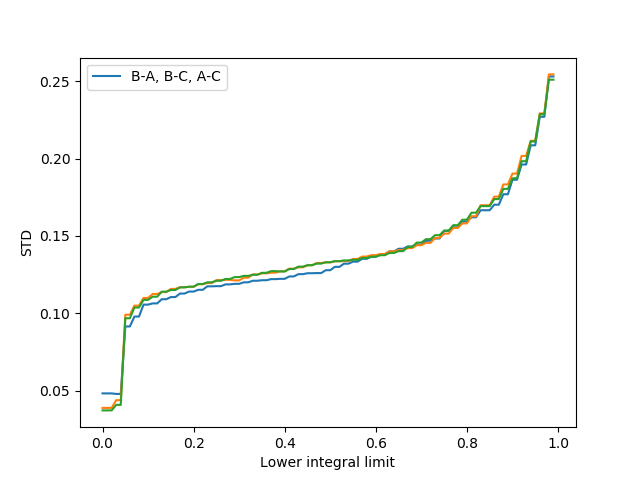
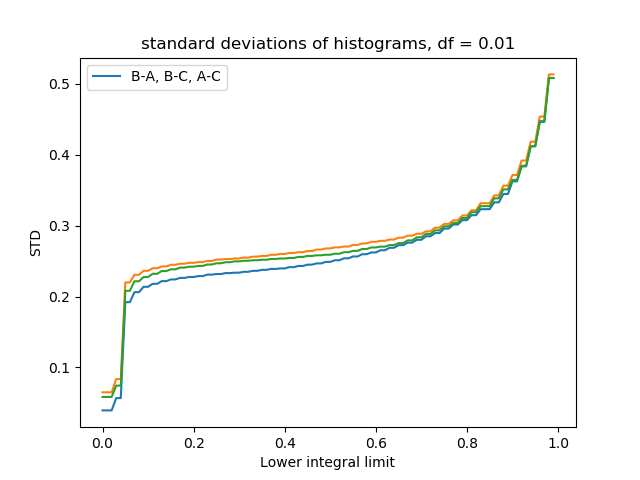
Did split-latitude sigma over f plot

diff --git a/SWARM/multi_SWARMreader.py b/SWARM/multi_SWARMreader.py
@@ -229,8 +229,8 @@ class MultiSWARM():
             lat0 - float; low latitude limit
 
         returns:
-            hists; list of histograms [BC, BA, AC]
-            bins; list of bins [BC, BA, AC]
+            hists; list of histograms [BA_high, BA_low, BC_high, BC_low, AC_high, AC_low]
+            bins; list of bins [BA_high, BA_low, BC_high, BC_low, AC_high, AC_low]
         """
 
         binlist = np.linspace(-1, 1, bins_)
@@ -302,7 +302,58 @@ class MultiSWARM():
             means[0][i] = BAmean
             means[1][i] = BCmean
             means[2][i] = ACmean
-            
+
+
+        return freq0s, sigmas, means
+
+
+
+
+    def freq_sig_lat(self,df = 0.1, n = 100,\
+                 bins_ = 10, abs = False, norm = True, lat1 = 75, lat0 = 0):
+        """
+        Calculates standard deviation and mean as a function of frequency
+        returns:
+            freq0s - nparray; array containing lower integral limits
+            sigmas - nparray; array on the form [sigmasBA, sigmasBC, sigmasAC]
+            means - nparray; array on the form [meansBA, meansBC, meansAC]
+        """
+        N = int(1/df)
+        freq0s = np.linspace(0, 1-df, N)
+        sigmas = np.zeros((6, N))
+        means = np.zeros_like(sigmas)
+        for i in range(len(freq0s)):
+            print(freq0s[i])
+            minfreq = freq0s[i]
+            maxfreq = freq0s[i]+df
+            hists, bins = self.multi_histmake_lat(n = n, minfreq = minfreq , maxfreq = maxfreq,\
+                         bins_ = bins_, abs = abs, norm = norm, lat1 = lat1, lat0 = lat0)
+            for j in range(len(hists)):
+                d_bins = bins[j][1] - bins[j][0]
+                hists[j] = hists[j]/np.sum(hists[j]*d_bins)
+
+
+            BAstd_high, BAmean_high = self.pro.std_mean(hists[0], bins[0])
+            BAstd_low, BAmean_low = self.pro.std_mean(hists[1], bins[1])
+            BCstd_high, BCmean_high = self.pro.std_mean(hists[2], bins[2])
+            BCstd_low, BCmean_low = self.pro.std_mean(hists[3], bins[3])
+            ACstd_high, ACmean_high = self.pro.std_mean(hists[4], bins[4])
+            ACstd_low, ACmean_low = self.pro.std_mean(hists[5], bins[5])
+
+            sigmas[0][i] = BAstd_high
+            sigmas[1][i] = BAstd_low
+            sigmas[2][i] = BCstd_high
+            sigmas[3][i] = BCstd_low
+            sigmas[4][i] = ACstd_high
+            sigmas[5][i] = ACstd_low
+            means[0][i] = BAmean_high
+            means[1][i] = BAmean_low
+            means[2][i] = BCmean_high
+            means[3][i] = BCmean_low
+            means[4][i] = ACmean_high
+            means[5][i] = ACmean_low
+
+
         return freq0s, sigmas, means
 
 
@@ -312,7 +363,7 @@ class MultiSWARM():
 
 if __name__ == "__main__":
     object = MultiSWARM(2013, 12, 9, 2013, 12, 31)
-    object.freq_sig(0.1)
+    # object.freq_sig(0.1)
     # hists, bins = object.multi_histmake_lat(minfreq = 0, maxfreq = 1/3, bins_ = 50, lat0 = 75, lat1 = 90)
     # width = bins[0][1] - bins[0][0]
     # plt.figure(1)
@@ -322,29 +373,28 @@ if __name__ == "__main__":
     # plt.bar(bins[1], hists[1], width = 0.9*width)
     # plt.title("low lat")
     # plt.show()
-    # minfreq = 0
-    # maxfreq = 1/3
-    # hists, bins = object.multi_histmake(bins_ = 200, minfreq = minfreq, maxfreq = maxfreq)
-    #
-    #
-    #
-    # widthA = bins[0][1] - bins[0][0]
-    # BA_hist = hists[0]/np.sum(hists[0]*widthA)
-    #
-    # std = np.std(BA_hist*bins[0])
-    # mean = np.mean(BA_hist*bins[0])
-    # x = np.linspace(-1, 1, 1000)
-    # pro = SWARMprocess()
-    # gaussian = pro.gauss_curve(x, std = std, mean = mean)
-    #
-    # print(std)
-    # print(mean)
-    #
-    # plt.figure(1)
-    # plt.bar(bins[0], BA_hist, width = 0.9*widthA)
-    # plt.xlabel("relative difference B - A")
-    # plt.ylabel("Normalized occurence")
-    # plt.title("B - A. integral limits: %g to %g" % (minfreq, maxfreq))
-    # plt.plot(x, gaussian, "r")
-    # plt.legend(["gaussian approximation", "B-A histogram"])
-    # plt.show()
+    minfreq = 2/3
+    maxfreq = 3/3
+    hists, bins = object.multi_histmake(bins_ = 200, minfreq = minfreq, maxfreq = maxfreq)
+
+
+
+    widthA = bins[0][1] - bins[0][0]
+    BA_hist = hists[0]/np.sum(hists[0]*widthA)
+
+    x = np.linspace(-1, 1, 1000)
+    pro = SWARMprocess()
+    std, mean = pro.std_mean(hists[0], bins[0])
+    gaussian = pro.gauss_curve(x, std = std, mean = mean)
+
+    print(std)
+    print(mean)
+
+    plt.figure(1)
+    plt.bar(bins[0], BA_hist, width = 0.9*widthA)
+    plt.xlabel("relative difference B - A")
+    plt.ylabel("Normalized occurence")
+    plt.title("B - A. integral limits: %g to %g" % (minfreq, maxfreq))
+    plt.plot(x, gaussian, "r")
+    plt.legend(["gaussian approximation", "B-A histogram"])
+    plt.show()

diff --git a/SWARM/multiplot.py b/SWARM/multiplot.py
@@ -14,9 +14,31 @@ def sigma_plotter():
     plt.xlabel("Lower integral limit")
     plt.ylabel("STD")
     plt.legend(["B-A, B-C, A-C"])
+    plt.title("standard deviations of histograms, df = 0.01")
     plt.show()
     stop = time.time()
     print(stop-start)
 
 
-sigma_plotter()
+def sigma_plotter_lat():
+    df = 0.01
+    start = time.time()
+    object = multi_SWARMreader.MultiSWARM(2013, 12, 9, 2013, 12, 31)
+    freq0s, sigmas, means = object.freq_sig_lat(df = df, n = 100, bins_ = 50, lat1 = 90, lat0 = 75)
+
+    plt.plot(freq0s, sigmas[0])
+    plt.plot(freq0s, sigmas[1])
+    plt.plot(freq0s, sigmas[2])
+    plt.plot(freq0s, sigmas[3])
+    plt.plot(freq0s, sigmas[4])
+    plt.plot(freq0s, sigmas[5])
+    plt.xlabel("Lower integral limit")
+    plt.ylabel("STD")
+    plt.legend(["BAH", "BAL", "BCH", "BCL", "ACH", "ACL"])
+    plt.title("standard deviations of histograms, df = %g" % df)
+    plt.show()
+    stop = time.time()
+    print(stop-start)
+
+
+sigma_plotter_lat()
